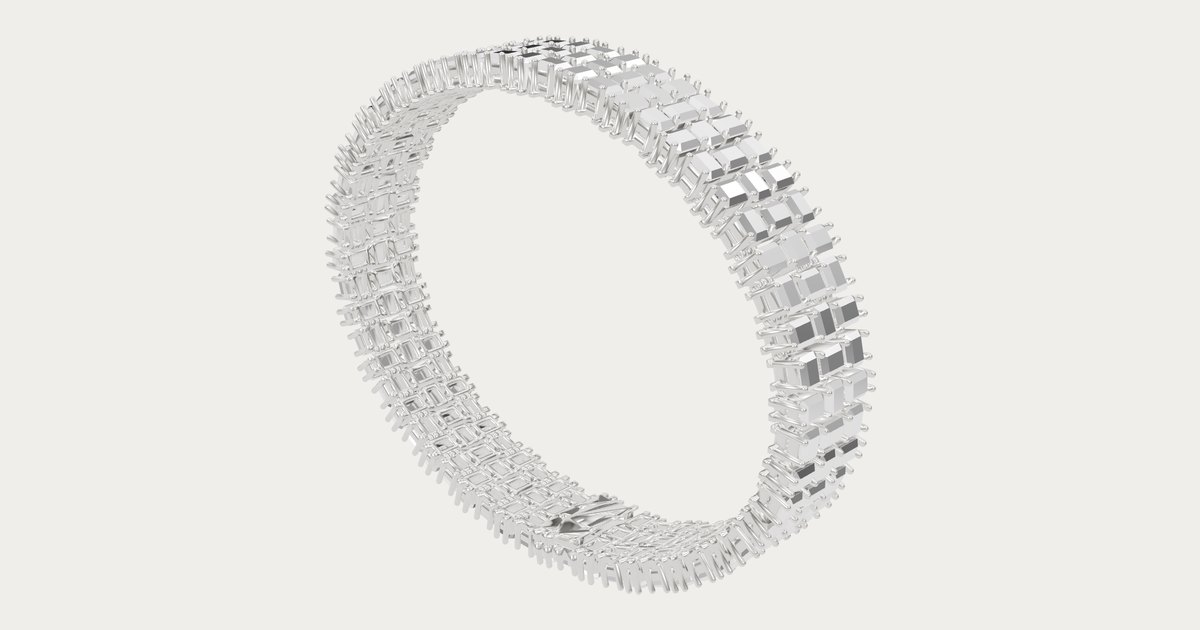
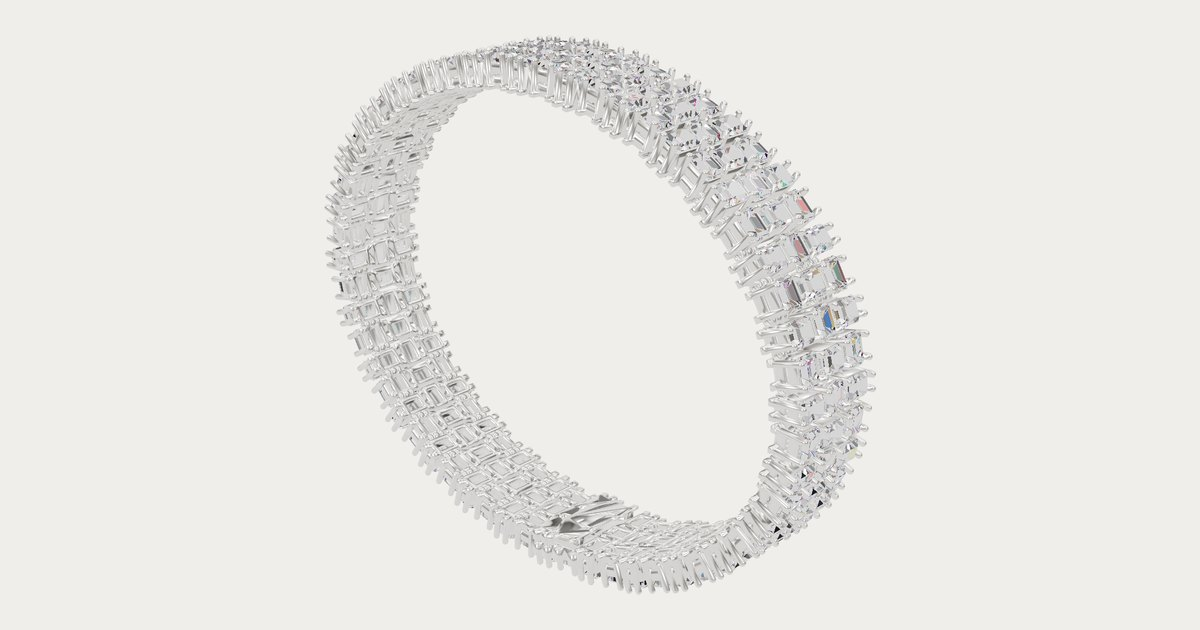
Publish baguette-tennis-v2-closed

Changed region(s): [[0.4008, 0.0603, 0.74, 0.8444]]

diff --git a/baguette-tennis-v2-closed/index.html b/baguette-tennis-v2-closed/index.html
@@ -11,7 +11,7 @@
 <meta property="og:title" content="צמיד טניס בגט · גרסה 2">
 <meta property="og:description" content="רק יהלומים ושיניים · סגור על היד">
 <meta property="og:url" content="https://israelbitton-web.github.io/jewelry-3d/baguette-tennis-v2-closed/">
-<meta property="og:image" content="https://israelbitton-web.github.io/jewelry-3d/baguette-tennis-v2-closed/preview.jpg?v=1793551524">
+<meta property="og:image" content="https://israelbitton-web.github.io/jewelry-3d/baguette-tennis-v2-closed/preview.jpg?v=1793552123">
 <meta property="og:image:width" content="1200">
 <meta property="og:image:height" content="630">
 <meta name="twitter:card" content="summary_large_image">
@@ -299,7 +299,7 @@ const CAPTURE = Q.has('capture');
 const CSIZE = +(Q.get('size') || 1080);
 if (CAPTURE) document.body.classList.add('capture');
 const CFG = await fetch('config.json', { cache: 'no-cache' }).then((r) => r.ok ? r.json() : {}).catch(() => ({}));
-const BUILD = '1793551524';
+const BUILD = '1793552123';
 if (CFG.v && BUILD !== '__BUILD__' && CFG.v !== BUILD && Q.get('r') !== CFG.v) { const u = new URL(location.href); u.searchParams.set('r', CFG.v); location.replace(u); }
 // language: every text on the page in one table; the switch (he / fr / en) rewrites all of it, details included.
 // start = ?lang=, then the visitor's last choice, then config "lang" ("auto" = the phone's language; default Hebrew)
